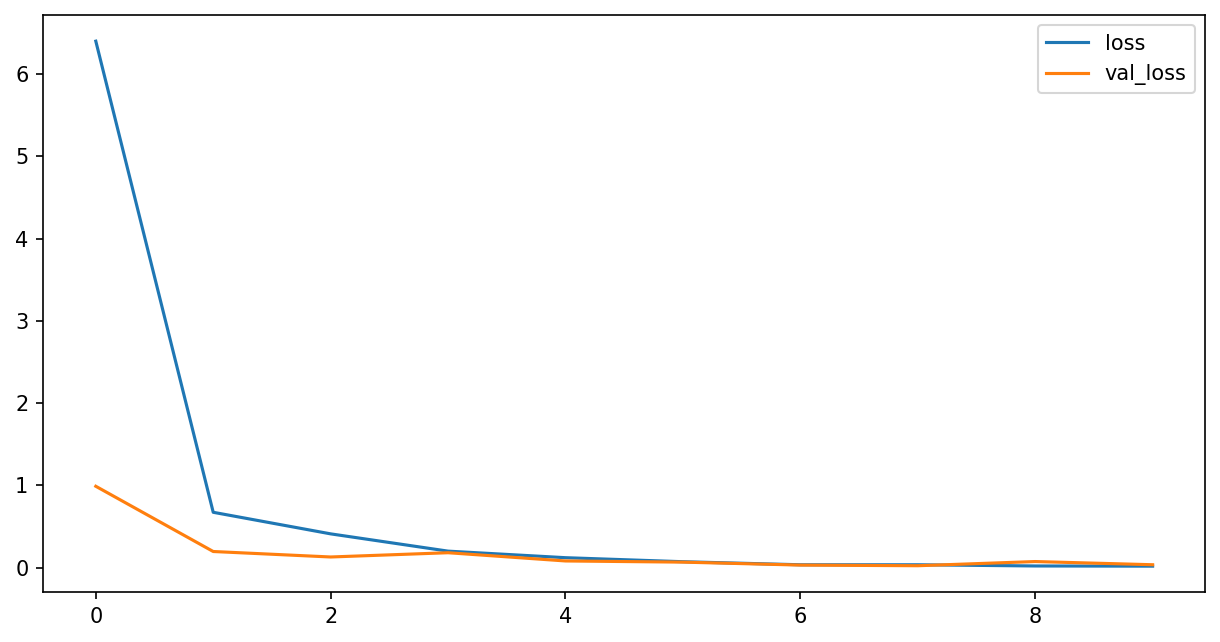
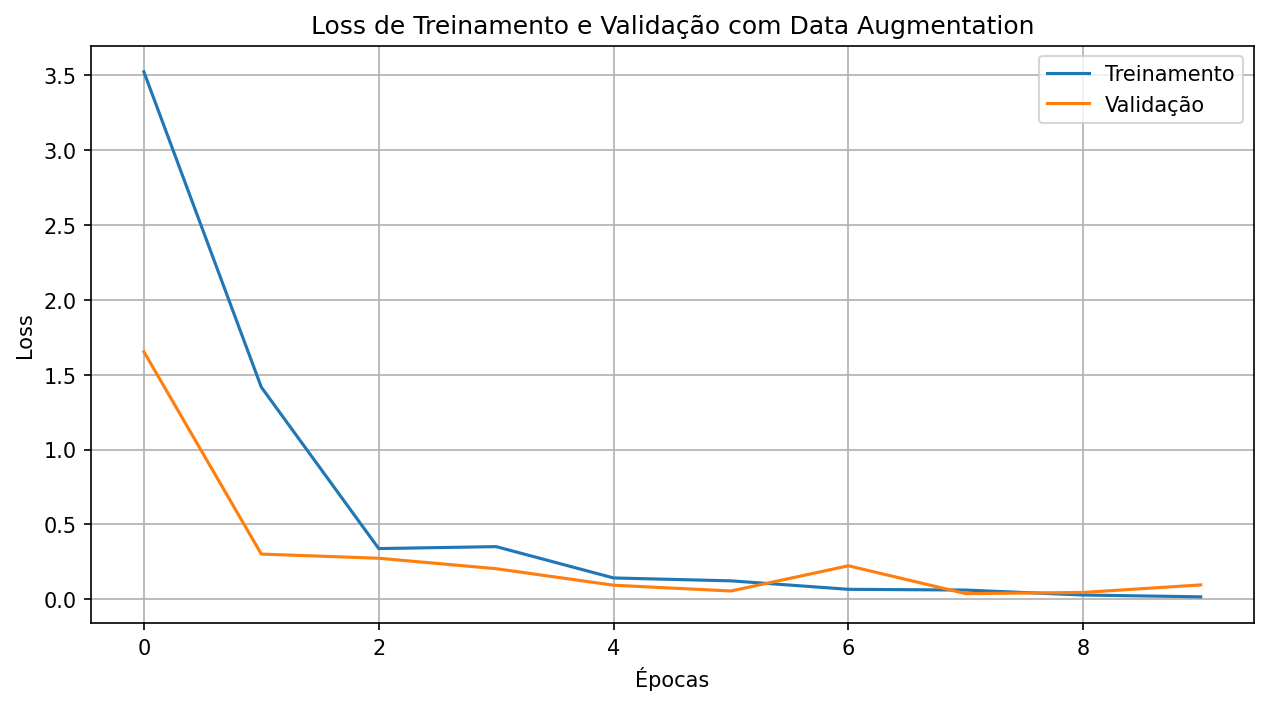
Sétima_split

diff --git a/estratificacao.py b/estratificacao.py
@@ -12,7 +12,11 @@ dir_test = './Dataset/test'
 
 
 def list_wavs(path):
-    return [f for f in os.listdir(path) if f.endswith('.wav')]
+
+    if not os.path.exists(path):
+        return []
+
+    return [f for f in os.listdir(path) if f.lower().endswith('.wav')]
 
 
 def count_wavs(path):
@@ -36,12 +40,17 @@ def verification(classe):
 
 
 def division_datasets(arquivos, classe):
+
     train_files, temp = sk.model_selection.train_test_split(
-        arquivos, test_size=0.3, random_state=42
+        arquivos,
+        test_size=0.3,
+        random_state=42
     )
 
     val_files, test_files = sk.model_selection.train_test_split(
-        temp, test_size=0.5, random_state=42
+        temp,
+        test_size=0.5,
+        random_state=42
     )
 
     for arquivo in train_files:
@@ -62,6 +71,37 @@ def division_datasets(arquivos, classe):
             os.path.join(dir_test, classe)
         )
 
+    return train_files, val_files, test_files
+
+
+def check_duplicates(train_files, val_files, test_files):
+
+    train_set = set(train_files)
+    val_set = set(val_files)
+    test_set = set(test_files)
+
+    train_val = train_set.intersection(val_set)
+    train_test = train_set.intersection(test_set)
+    val_test = val_set.intersection(test_set)
+
+    if train_val or train_test or val_test:
+
+        print("\nArquivos duplicados encontrados!")
+
+        if train_val:
+            print(f"Duplicados entre train e validation: {train_val}")
+
+        if train_test:
+            print(f"Duplicados entre train e test: {train_test}")
+
+        if val_test:
+            print(f"Duplicados entre validation e test: {val_test}")
+
+        return False
+
+    print("\nNenhum arquivo duplicado encontrado.")
+    return True
+
 
 def estratificacao(arquivos, classe):
     if not verification(classe):
@@ -72,7 +112,10 @@ def estratificacao(arquivos, classe):
         delete_files(os.path.join(dir_validation, classe))
         delete_files(os.path.join(dir_test, classe))
 
-        division_datasets(arquivos, classe)
+        train_files, val_files, test_files = division_datasets(
+            arquivos, classe)
+
+        check_duplicates(train_files, val_files, test_files)
 
         print(" Concluído:")
         len_train = count_wavs(os.path.join(dir_train, classe))

diff --git a/cnn_data_augmentation.py b/cnn_data_augmentation.py
@@ -208,17 +208,31 @@ metrics = history.history
 plt.figure(figsize=(10, 5))
 plt.plot(history.epoch, metrics["loss"])
 plt.plot(history.epoch, metrics["val_loss"])
-plt.legend(["loss", "val_loss"])
-plt.savefig("training_loss_data_augmentation.png",
-            dpi=150, bbox_inches="tight")
+plt.xlabel("Épocas")
+plt.ylabel("Loss")
+plt.title("Loss de Treinamento e Validação com Data Augmentation")
+plt.legend(["Treinamento", "Validação"])
+plt.grid(True)
+plt.savefig(
+    "training_loss_data_augmentation.png",
+    dpi=150,
+    bbox_inches="tight"
+)
 plt.close()
 
 plt.figure(figsize=(10, 5))
 plt.plot(history.epoch, metrics["accuracy"])
 plt.plot(history.epoch, metrics["val_accuracy"])
-plt.legend(["accuracy", "val_accuracy"])
-plt.savefig("training_accuracy_data_augmentation.png",
-            dpi=150, bbox_inches="tight")
+plt.xlabel("Épocas")
+plt.ylabel("Accuracy")
+plt.title("Accuracy de Treinamento e Validação com Data Augmentation")
+plt.legend(["Treinamento", "Validação"])
+plt.grid(True)
+plt.savefig(
+    "training_accuracy_data_augmentation.png",
+    dpi=150,
+    bbox_inches="tight"
+)
 plt.close()
 
 test_audio = []

diff --git a/cnn.py b/cnn.py
@@ -159,15 +159,31 @@ metrics = history.history
 plt.figure(figsize=(10, 5))
 plt.plot(history.epoch, metrics["loss"])
 plt.plot(history.epoch, metrics["val_loss"])
-plt.legend(["loss", "val_loss"])
-plt.savefig("training_loss.png", dpi=150, bbox_inches="tight")
+plt.xlabel("Épocas")
+plt.ylabel("Loss")
+plt.title("Loss de Treinamento e Validação")
+plt.legend(["Treinamento", "Validação"])
+plt.grid(True)
+plt.savefig(
+    "training_loss.png",
+    dpi=150,
+    bbox_inches="tight"
+)
 plt.close()
 
 plt.figure(figsize=(10, 5))
 plt.plot(history.epoch, metrics["accuracy"])
 plt.plot(history.epoch, metrics["val_accuracy"])
-plt.legend(["accuracy", "val_accuracy"])
-plt.savefig("training_accuracy.png", dpi=150, bbox_inches="tight")
+plt.xlabel("Épocas")
+plt.ylabel("Accuracy")
+plt.title("Accuracy de Treinamento e Validação")
+plt.legend(["Treinamento", "Validação"])
+plt.grid(True)
+plt.savefig(
+    "training_accuracy.png",
+    dpi=150,
+    bbox_inches="tight"
+)
 plt.close()
 
 test_audio = []
